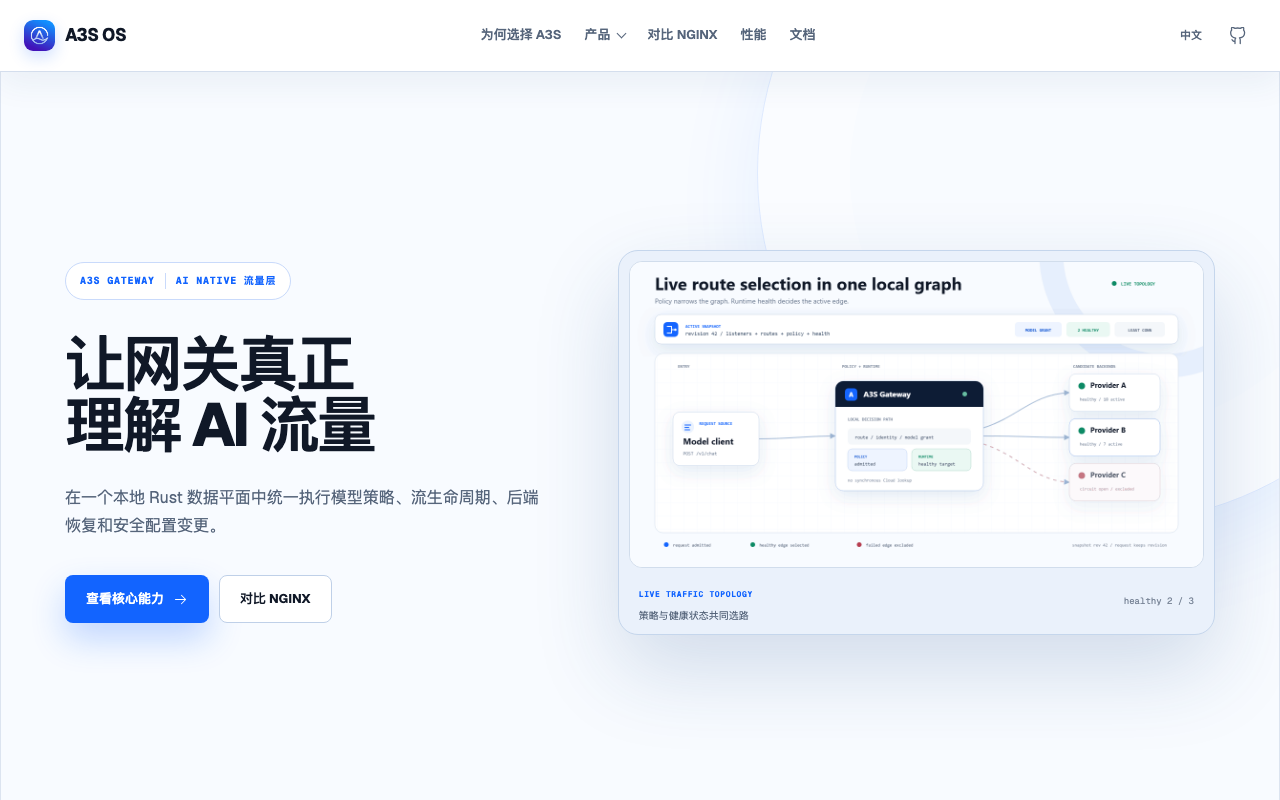
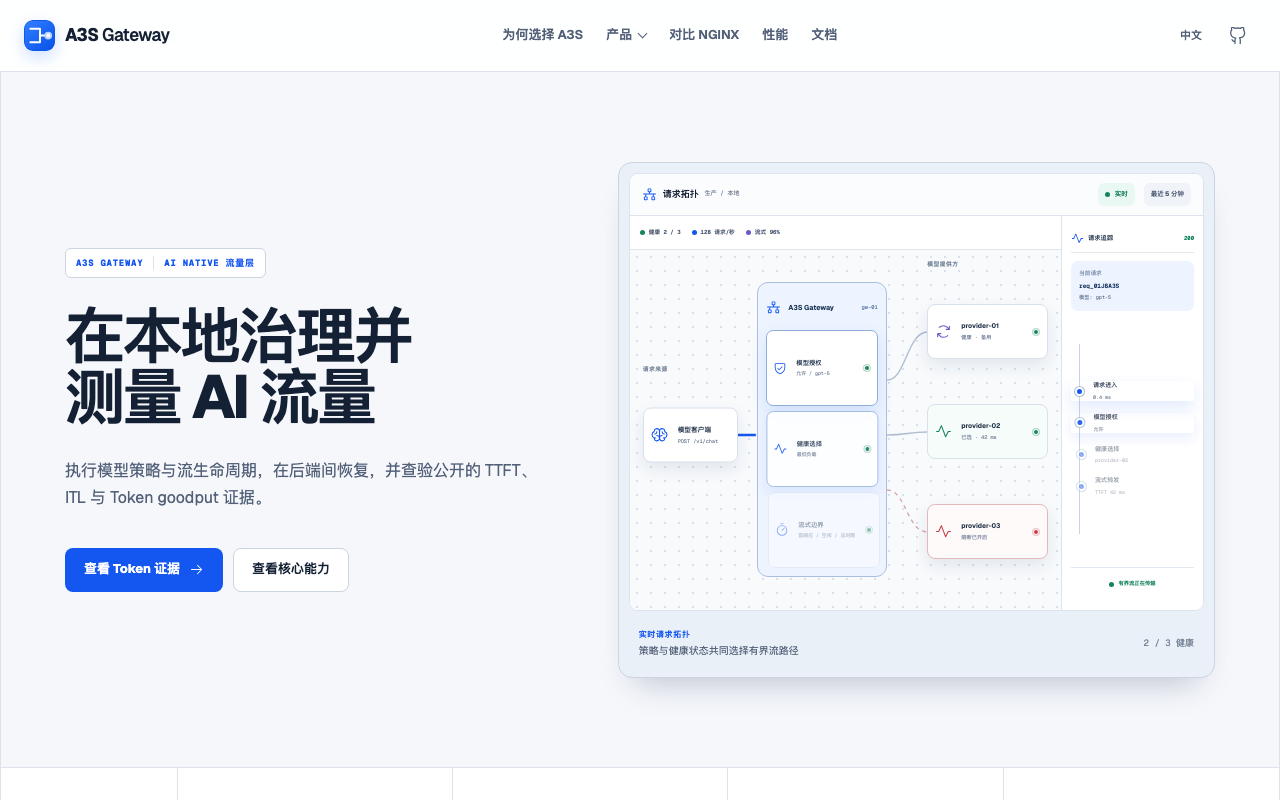
fix(docs): localize Gateway project previews

diff --git a/apps/docs/scripts/capture-project-sites.ts b/apps/docs/scripts/capture-project-sites.ts
@@ -4,7 +4,11 @@ import { access, mkdir, mkdtemp, readFile, readdir, rename, rm, stat, writeFile 
 import { homedir, platform, tmpdir } from 'node:os';
 import path from 'node:path';
 import { promisify } from 'node:util';
-import { featuredProjectSites } from '../components/home/project-sites';
+import {
+  featuredProjectSites,
+  type FeaturedProjectSite,
+  type ProjectSiteCaptureLanguage,
+} from '../components/home/project-sites';
 
 const execute = promisify(execFile);
 const root = process.cwd();
@@ -272,6 +276,7 @@ async function captureWithChrome(
   output: string,
   profile: string,
   settleMs: number,
+  captureLanguage?: ProjectSiteCaptureLanguage,
 ) {
   await mkdir(profile, { recursive: true });
   const chromeProcess = spawn(chromeExecutable, [
@@ -314,6 +319,12 @@ async function captureWithChrome(
     await client.send('Runtime.evaluate', {
       awaitPromise: true,
       expression: `(async () => {
+        const requestedLanguage = ${JSON.stringify(captureLanguage ?? null)};
+        if (requestedLanguage && document.documentElement.dataset.language !== requestedLanguage) {
+          document.querySelector('[data-language-toggle]')?.click();
+          await new Promise((resolve) => requestAnimationFrame(() => requestAnimationFrame(resolve)));
+        }
+
         if (document.fonts?.ready) await document.fonts.ready;
         const images = [...document.images].filter((image) => image.loading !== 'lazy' || image.getBoundingClientRect().top < innerHeight * 1.5);
         await Promise.all(images.map((image) => image.complete ? undefined : new Promise((resolve) => {
@@ -362,6 +373,18 @@ async function captureWithChrome(
       })()`,
       returnByValue: true,
     });
+    if (captureLanguage) {
+      const languageState = await client.send('Runtime.evaluate', {
+        expression: 'document.documentElement.dataset.language',
+        returnByValue: true,
+      });
+      const language = (languageState.result as { value?: unknown } | undefined)?.value;
+      if (language !== captureLanguage) {
+        throw new Error(
+          `preview did not enter the requested ${captureLanguage} language state (${String(language)})`,
+        );
+      }
+    }
     const screenshot = await client.send('Page.captureScreenshot', {
       captureBeyondViewport: false,
       format: 'png',
@@ -376,7 +399,7 @@ async function captureWithChrome(
 }
 
 const requestedSite = process.argv.find((argument) => argument.startsWith('--site='))?.split('=')[1];
-const sites = requestedSite
+const sites: readonly FeaturedProjectSite[] = requestedSite
   ? featuredProjectSites.filter((site) => site.id === requestedSite)
   : [...featuredProjectSites];
 
@@ -396,45 +419,83 @@ await mkdir(outputDirectory, { recursive: true });
 const temporaryDirectory = await mkdtemp(path.join(tmpdir(), 'a3s-project-sites-'));
 const failures: string[] = [];
 
-async function capture(site: (typeof featuredProjectSites)[number]) {
-  const output = path.join(outputDirectory, path.basename(site.screenshot));
-  const temporaryOutput = path.join(temporaryDirectory, path.basename(site.screenshot));
-  const profile = path.join(temporaryDirectory, `${site.id}-profile`);
-  const captureUrl = site.captureUrl;
+interface CaptureTarget {
+  captureLanguage?: ProjectSiteCaptureLanguage;
+  captureUrl: string;
+  id: string;
+  screenshot: string;
+  settleMs: number;
+}
+
+function captureTargetsFor(site: FeaturedProjectSite): CaptureTarget[] {
+  const targets: CaptureTarget[] = [{
+    captureLanguage: site.captureLanguage,
+    captureUrl: site.captureUrl,
+    id: site.id,
+    screenshot: site.screenshot,
+    settleMs: site.settleMs,
+  }];
+
+  for (const [language, preview] of Object.entries(site.localizedPreviews ?? {})) {
+    targets.push({
+      captureLanguage: preview.captureLanguage,
+      captureUrl: preview.captureUrl ?? site.captureUrl,
+      id: `${site.id}-${language}`,
+      screenshot: preview.screenshot,
+      settleMs: site.settleMs,
+    });
+  }
+
+  return targets;
+}
+
+const captureTargets = sites.flatMap(captureTargetsFor);
+
+async function capture(target: CaptureTarget) {
+  const output = path.join(outputDirectory, path.basename(target.screenshot));
+  const temporaryOutput = path.join(temporaryDirectory, path.basename(target.screenshot));
+  const profile = path.join(temporaryDirectory, `${target.id}-profile`);
+  const captureUrl = target.captureUrl;
 
   try {
     await assertCaptureUrlIsHealthy(captureUrl);
-    await captureWithChrome(captureUrl, temporaryOutput, profile, site.settleMs);
+    await captureWithChrome(
+      captureUrl,
+      temporaryOutput,
+      profile,
+      target.settleMs,
+      target.captureLanguage,
+    );
 
     if (!await fileIsUsable(temporaryOutput)) {
       throw new Error('Chrome produced no usable screenshot');
     }
 
     await rename(temporaryOutput, output);
-    console.log(`Captured ${site.id}: ${captureUrl}`);
+    console.log(`Captured ${target.id}: ${captureUrl}`);
   } catch (error) {
     if (await fileIsUsable(temporaryOutput)) {
       await rename(temporaryOutput, output);
-      console.warn(`Captured ${site.id}: ${captureUrl} (Chrome reported an error after writing the image)`);
+      console.warn(`Captured ${target.id}: ${captureUrl} (Chrome reported an error after writing the image)`);
       return;
     }
 
     if (await fileIsUsable(output)) {
-      console.warn(`Keeping the committed ${site.id} screenshot: ${String(error)}`);
+      console.warn(`Keeping the committed ${target.id} screenshot: ${String(error)}`);
       return;
     }
 
-    failures.push(`${site.id}: ${String(error)}`);
+    failures.push(`${target.id}: ${String(error)}`);
   }
 }
 
 try {
   let nextIndex = 0;
   async function worker() {
-    while (nextIndex < sites.length) {
-      const site = sites[nextIndex];
+    while (nextIndex < captureTargets.length) {
+      const target = captureTargets[nextIndex];
       nextIndex += 1;
-      await capture(site);
+      await capture(target);
     }
   }
 

diff --git a/apps/docs/components/home/project-sites.test.ts b/apps/docs/components/home/project-sites.test.ts
@@ -2,7 +2,7 @@ import assert from 'node:assert/strict';
 import { existsSync, readFileSync } from 'node:fs';
 import { describe, test } from 'node:test';
 import { architectureProjects } from './architecture';
-import { featuredProjectSites } from './project-sites';
+import { featuredProjectSites, type FeaturedProjectSite } from './project-sites';
 
 describe('featured project site previews', () => {
   test('point to known projects and committed screenshots', () => {
@@ -11,7 +11,7 @@ describe('featured project site previews', () => {
     assert.equal(featuredProjectSites.length, 8);
     assert.equal(new Set(featuredProjectSites.map((site) => site.id)).size, 8);
 
-    for (const site of featuredProjectSites) {
+    for (const site of featuredProjectSites as readonly FeaturedProjectSite[]) {
       assert.equal(projectIds.has(site.id), true);
       assert.equal(site.captureUrl.startsWith('https://'), true);
       assert.equal(
@@ -24,7 +24,24 @@ describe('featured project site previews', () => {
         true,
         `Missing screenshot for ${site.id}`,
       );
+
+      for (const preview of Object.values(site.localizedPreviews ?? {})) {
+        assert.equal(
+          existsSync(new URL(`../../public/${preview.screenshot.slice(1)}`, import.meta.url)),
+          true,
+          `Missing localized screenshot for ${site.id}`,
+        );
+      }
     }
+  });
+
+  test('matches Gateway screenshots to the homepage language', () => {
+    const gateway = featuredProjectSites.find((site) => site.id === 'gateway');
+
+    assert.equal(gateway?.captureLanguage, 'zh');
+    assert.equal(gateway?.screenshot, '/ecosystem-sites/gateway.png');
+    assert.equal(gateway?.localizedPreviews?.en.captureLanguage, 'en');
+    assert.equal(gateway?.localizedPreviews?.en.screenshot, '/ecosystem-sites/gateway-en.png');
   });
 
   test('features the Box and Power sites', () => {
@@ -87,7 +104,7 @@ describe('featured project site previews', () => {
       'utf8',
     );
     const healthCheck = captureScript.indexOf('await assertCaptureUrlIsHealthy(captureUrl)');
-    const chromeCapture = captureScript.indexOf('await captureWithChrome(captureUrl');
+    const chromeCapture = captureScript.indexOf('await captureWithChrome(');
 
     assert.notEqual(healthCheck, -1);
     assert.notEqual(chromeCapture, -1);
@@ -98,6 +115,8 @@ describe('featured project site previews', () => {
     assert.equal(captureScript.includes('await waitForPageTarget(port, chromeProcess)'), true);
     assert.equal(captureScript.includes('animation-play-state: paused'), true);
     assert.equal(captureScript.includes("document.querySelectorAll('video')"), true);
+    assert.equal(captureScript.includes("[data-language-toggle]"), true);
+    assert.equal(captureScript.includes('site.captureLanguage'), true);
     assert.equal(captureScript.includes('--virtual-time-budget'), false);
   });
 });

diff --git a/apps/docs/components/home/ecosystem-directory.tsx b/apps/docs/components/home/ecosystem-directory.tsx
@@ -134,7 +134,13 @@ function DeliveryStageGuide({ lang }: { lang: Lang }) {
   );
 }
 
-function ProjectSitePreview({ project, site }: { project: ArchitectureProject; site: FeaturedProjectSite }) {
+function ProjectSitePreview({ project, site, lang }: {
+  project: ArchitectureProject;
+  site: FeaturedProjectSite;
+  lang: Lang;
+}) {
+  const screenshot = site.localizedPreviews?.[lang]?.screenshot ?? site.screenshot;
+
   return (
     <div className="a3s-site-preview" data-site={project.id} aria-hidden="true">
       <div className="a3s-site-preview__chrome">
@@ -143,7 +149,7 @@ function ProjectSitePreview({ project, site }: { project: ArchitectureProject; s
         <b />
       </div>
       <div className="a3s-site-preview__image">
-        <img alt="" height="800" loading="lazy" src={withBase(site.screenshot)} width="1280" />
+        <img alt="" height="800" loading="lazy" src={withBase(screenshot)} width="1280" />
       </div>
     </div>
   );
@@ -155,7 +161,7 @@ function FeaturedSiteCard({ project, site, lang }: { project: ArchitectureProjec
 
   return (
     <article className="a3s-site-card" data-preview-mode={site.mode} data-site={project.id}>
-      <ProjectSitePreview project={project} site={site} />
+      <ProjectSitePreview lang={lang} project={project} site={site} />
       <div className="a3s-site-card__body">
         <div className="a3s-site-card__heading">
           <div>

diff --git a/apps/docs/components/home/project-sites.ts b/apps/docs/components/home/project-sites.ts
@@ -1,11 +1,21 @@
 import type { ProjectId } from './project-links';
 
+export type ProjectSiteCaptureLanguage = 'en' | 'zh';
+
+export interface LocalizedProjectSitePreview {
+  captureLanguage: ProjectSiteCaptureLanguage;
+  captureUrl?: string;
+  screenshot: string;
+}
+
 export interface FeaturedProjectSite {
   id: ProjectId;
   href: string;
   captureUrl: string;
+  captureLanguage?: ProjectSiteCaptureLanguage;
   displayUrl: string;
   screenshot: string;
+  localizedPreviews?: Partial<Record<'cn' | 'en', LocalizedProjectSitePreview>>;
   settleMs: number;
   mode: 'live' | 'build';
   destination: 'site' | 'repository';
@@ -86,8 +96,15 @@ export const featuredProjectSites = [
     id: 'gateway',
     href: 'https://a3s-lab.github.io/Gateway/',
     captureUrl: 'https://a3s-lab.github.io/Gateway/',
+    captureLanguage: 'zh',
     displayUrl: 'a3s-lab.github.io/Gateway',
     screenshot: '/ecosystem-sites/gateway.png',
+    localizedPreviews: {
+      en: {
+        captureLanguage: 'en',
+        screenshot: '/ecosystem-sites/gateway-en.png',
+      },
+    },
     settleMs: 3_500,
     mode: 'live',
     destination: 'site',

diff --git a/apps/docs/README.md b/apps/docs/README.md
@@ -82,6 +82,11 @@ Each project defines its own animation settle time in
 images, lets the hero reach that frame, then freezes CSS, SVG, video, and GIF
 motion before writing the PNG.
 
+Projects with language-aware pages can define a capture language and localized
+preview overrides. The capture task switches the remote page through its
+`data-language-toggle` control and verifies the resulting `data-language`
+state, so each homepage locale receives the matching committed screenshot.
+
 The capture task keeps an existing committed image when a remote site is
 temporarily unavailable. Add or change destinations in
 `components/home/project-sites.ts`.
